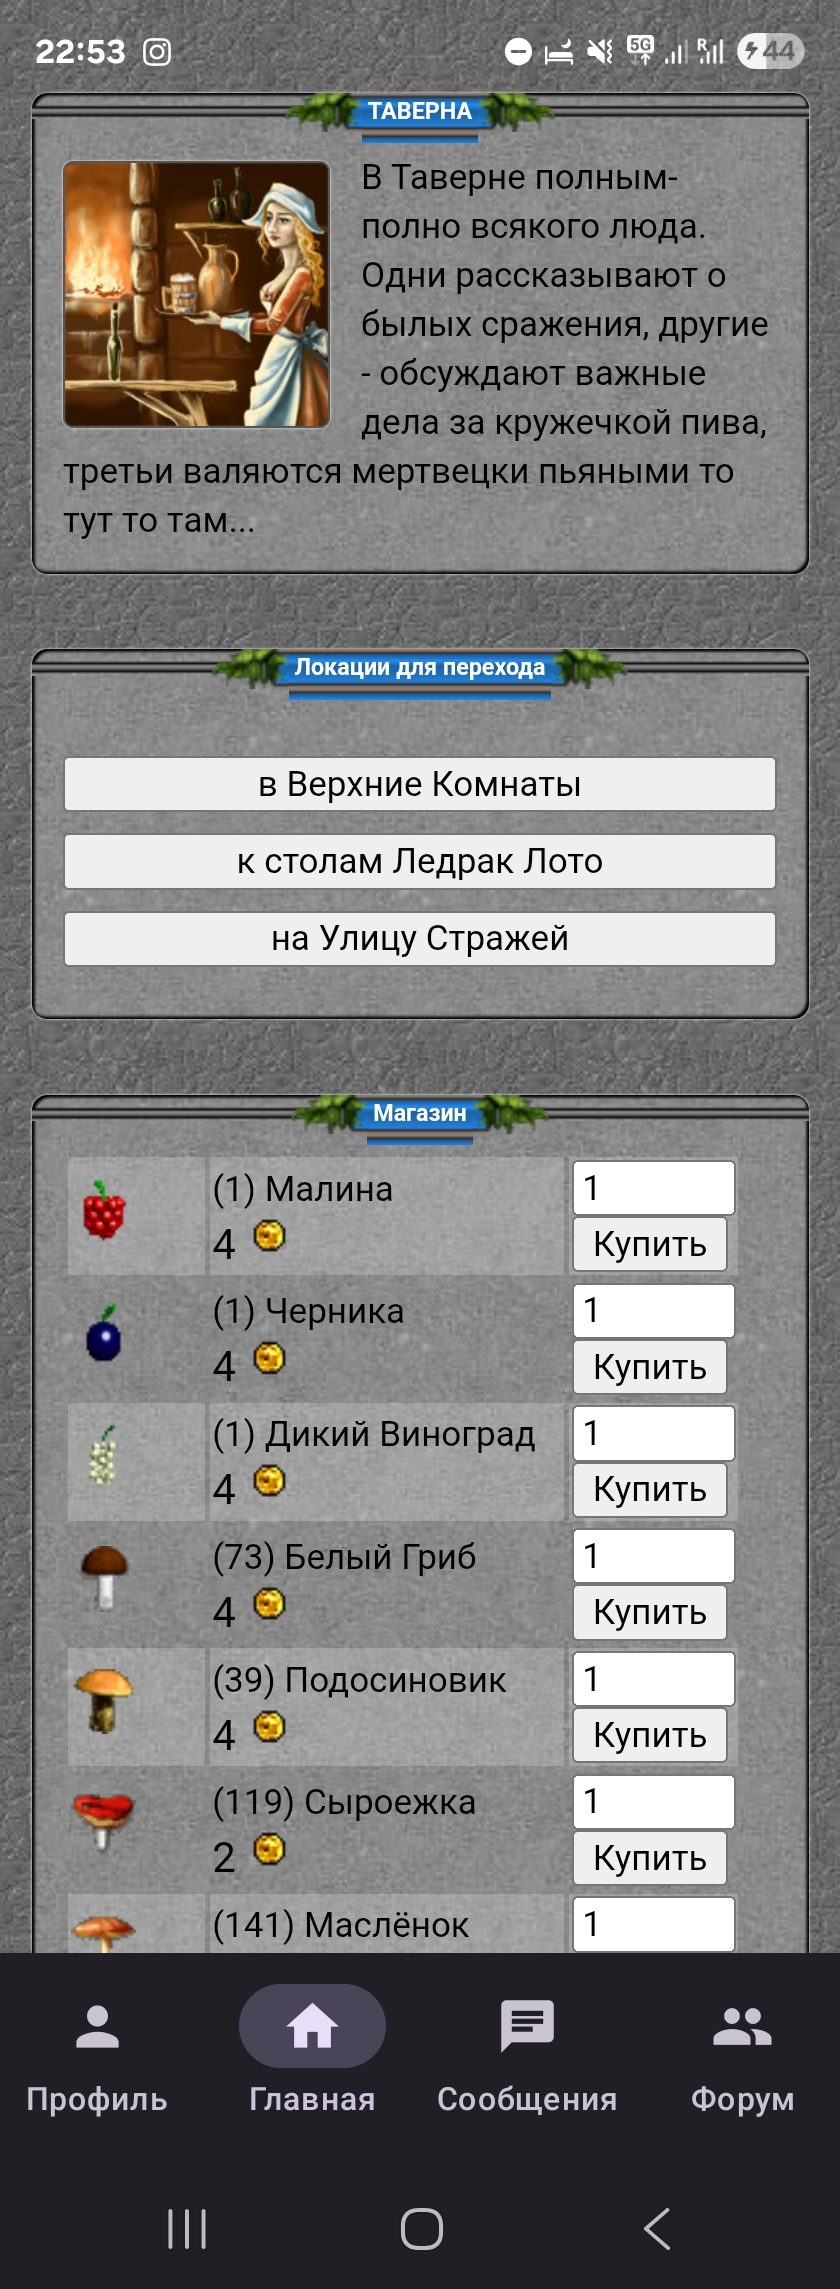
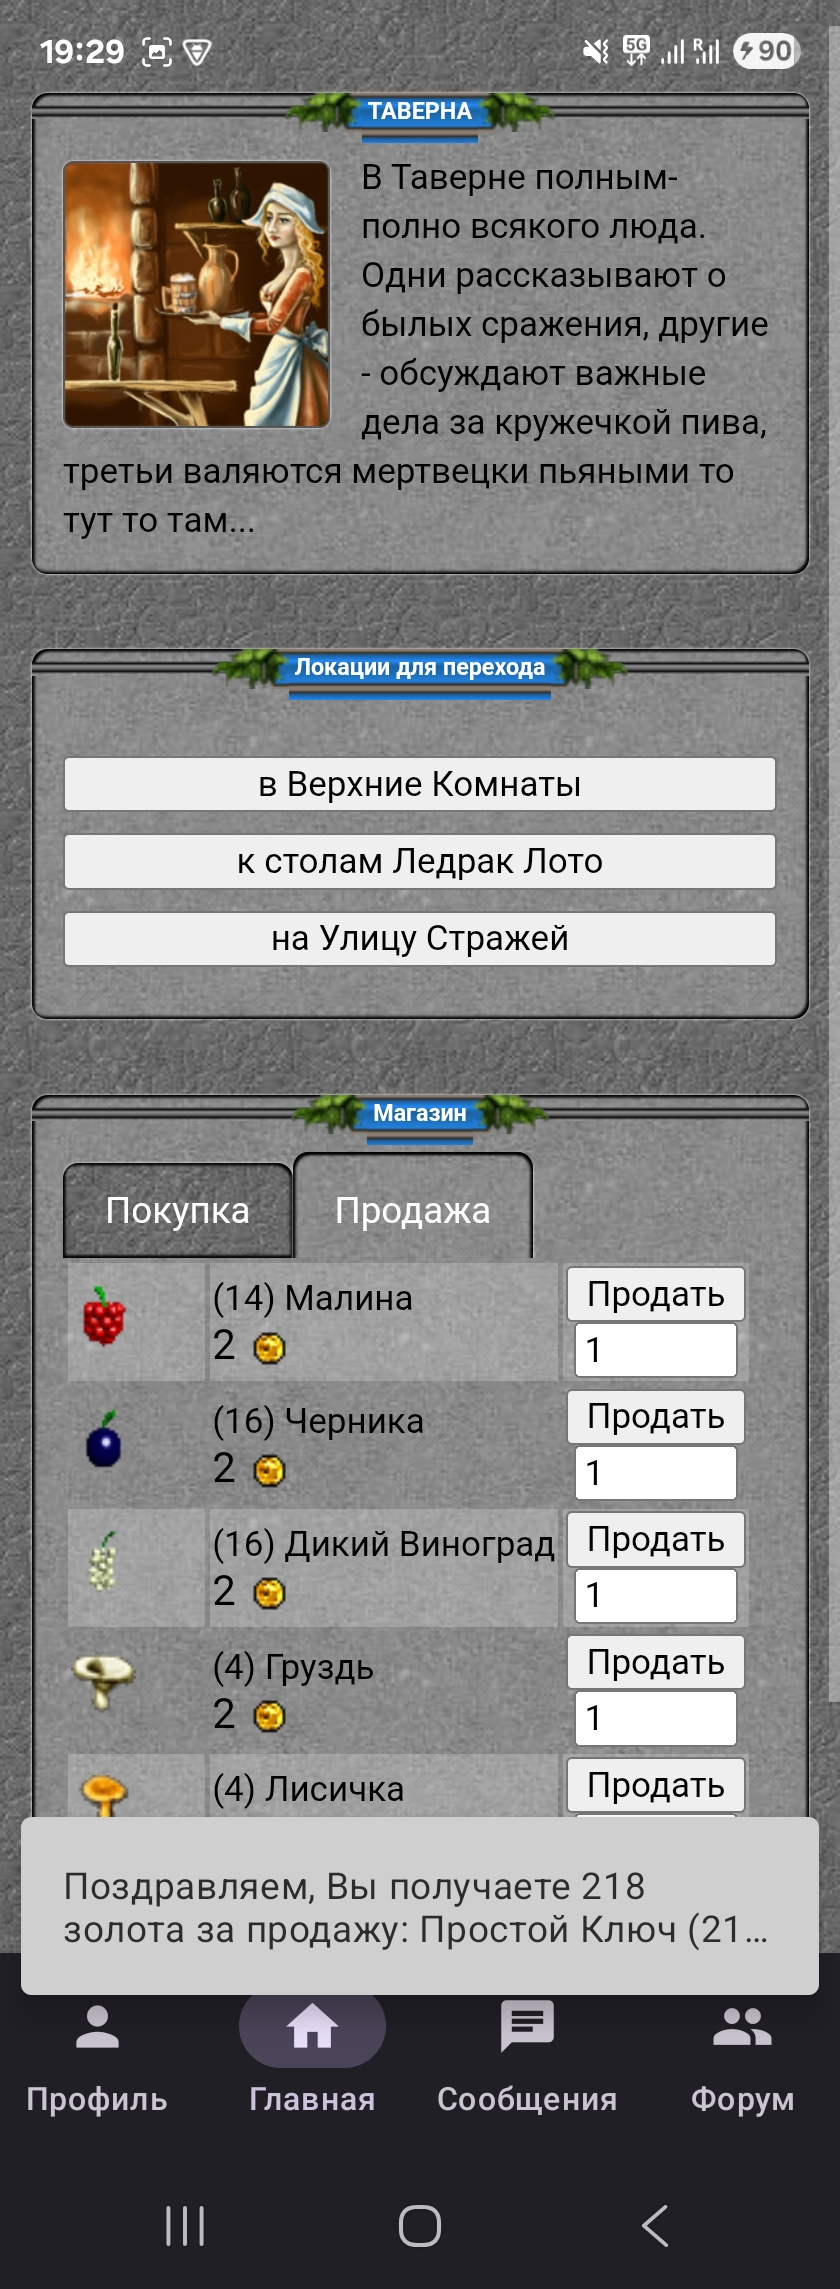
[#49] [NF] State-owned stores. Actualize screens

diff --git a/README_ru.md b/README_ru.md
@@ -17,7 +17,7 @@
 <img alt="Тема форума" style="border-width:0;width:200px" src="./docs/design-flow/forum_3.jpg" /> . <img alt="Профиль" style="border-width:0;width:200px" src="./docs/design-flow/info_1.jpg" /> . <img alt="Профиль - Помощь" style="border-width:0;width:200px" src="./docs/design-flow/info_2.jpg" /> . <img alt="Профиль - Почта" style="border-width:0;width:200px" src="./docs/design-flow/info_diary_mail.jpg" />
 <img alt="Информация о персонаже" style="border-width:0;width:200px" src="./docs/design-flow/info_3.jpg" /> . <img alt="Информация об армиях" style="border-width:0;width:200px" src="./docs/design-flow/info_4.jpg" /> . <img alt="Вещи" style="border-width:0;width:200px" src="./docs/design-flow/info_5.jpg" /> . <img alt="Лабиринт" style="border-width:0;width:200px" src="./docs/design-flow/lab_1.jpg" />
 <img alt="Настройки лабиринта" style="border-width:0;width:200px" src="./docs/design-flow/lab_2.jpg" /> . <img alt="Боковая панель" style="border-width:0;width:200px" src="./docs/design-flow/sidebar.jpg" /> .  <img alt="Системное сообщение" style="border-width:0;width:200px" src="./docs/design-flow/chat_1.jpg" /> . <img alt="Сообщения" style="border-width:0;width:200px" src="./docs/design-flow/chat_2.jpg" />
-<img alt="Руны" style="border-width:0;width:200px" src="./docs/design-flow/info_6.jpg" /> . <img alt="Магазин" style="border-width:0;width:200px" src="./docs/design-flow/store_1.jpg" /> .
+<img alt="Руны" style="border-width:0;width:200px" src="./docs/design-flow/info_6.jpg" /> . <img alt="Магазин Вещей" style="border-width:0;width:200px" src="./docs/design-flow/store_1.jpg" /> . <img alt="Магазин Последователей" style="border-width:0;width:200px" src="./docs/design-flow/store_2.jpg" /> .
 
 ## Поддержка (Спонсорство)
 

diff --git a/README.md b/README.md
@@ -16,7 +16,7 @@ Unofficial client to Liga of Heroes (fantasyland.ru) made by Citadel (https://ww
 <img alt="Forum Topic" style="border-width:0;width:200px" src="./docs/design-flow/forum_3.jpg" /> . <img alt="Profile" style="border-width:0;width:200px" src="./docs/design-flow/info_1.jpg" /> . <img alt="Profile - Help" style="border-width:0;width:200px" src="./docs/design-flow/info_2.jpg" /> . <img alt="Profile - Mailbox" style="border-width:0;width:200px" src="./docs/design-flow/info_diary_mail.jpg" />
 <img alt="Info" style="border-width:0;width:200px" src="./docs/design-flow/info_3.jpg" /> . <img alt="Info Army" style="border-width:0;width:200px" src="./docs/design-flow/info_4.jpg" /> . <img alt="Stuff" style="border-width:0;width:200px" src="./docs/design-flow/info_5.jpg" /> . <img alt="Labyrinth" style="border-width:0;width:200px" src="./docs/design-flow/lab_1.jpg" />
 <img alt="Labyrinth Settings" style="border-width:0;width:200px" src="./docs/design-flow/lab_2.jpg" /> . <img alt="Sidebar" style="border-width:0;width:200px" src="./docs/design-flow/sidebar.jpg" /> . <img alt="System Message" style="border-width:0;width:200px" src="./docs/design-flow/chat_1.jpg" /> . <img alt="Chat" style="border-width:0;width:200px" src="./docs/design-flow/chat_2.jpg" />
-<img alt="Runes" style="border-width:0;width:200px" src="./docs/design-flow/info_6.jpg" /> . <img alt="Store" style="border-width:0;width:200px" src="./docs/design-flow/store_1.jpg" /> .
+<img alt="Runes" style="border-width:0;width:200px" src="./docs/design-flow/info_6.jpg" /> . <img alt="Store Items" style="border-width:0;width:200px" src="./docs/design-flow/store_1.jpg" /> . <img alt="Store Army" style="border-width:0;width:200px" src="./docs/design-flow/store_2.jpg" /> .
 
 ## Support (Sponsorship)
 
